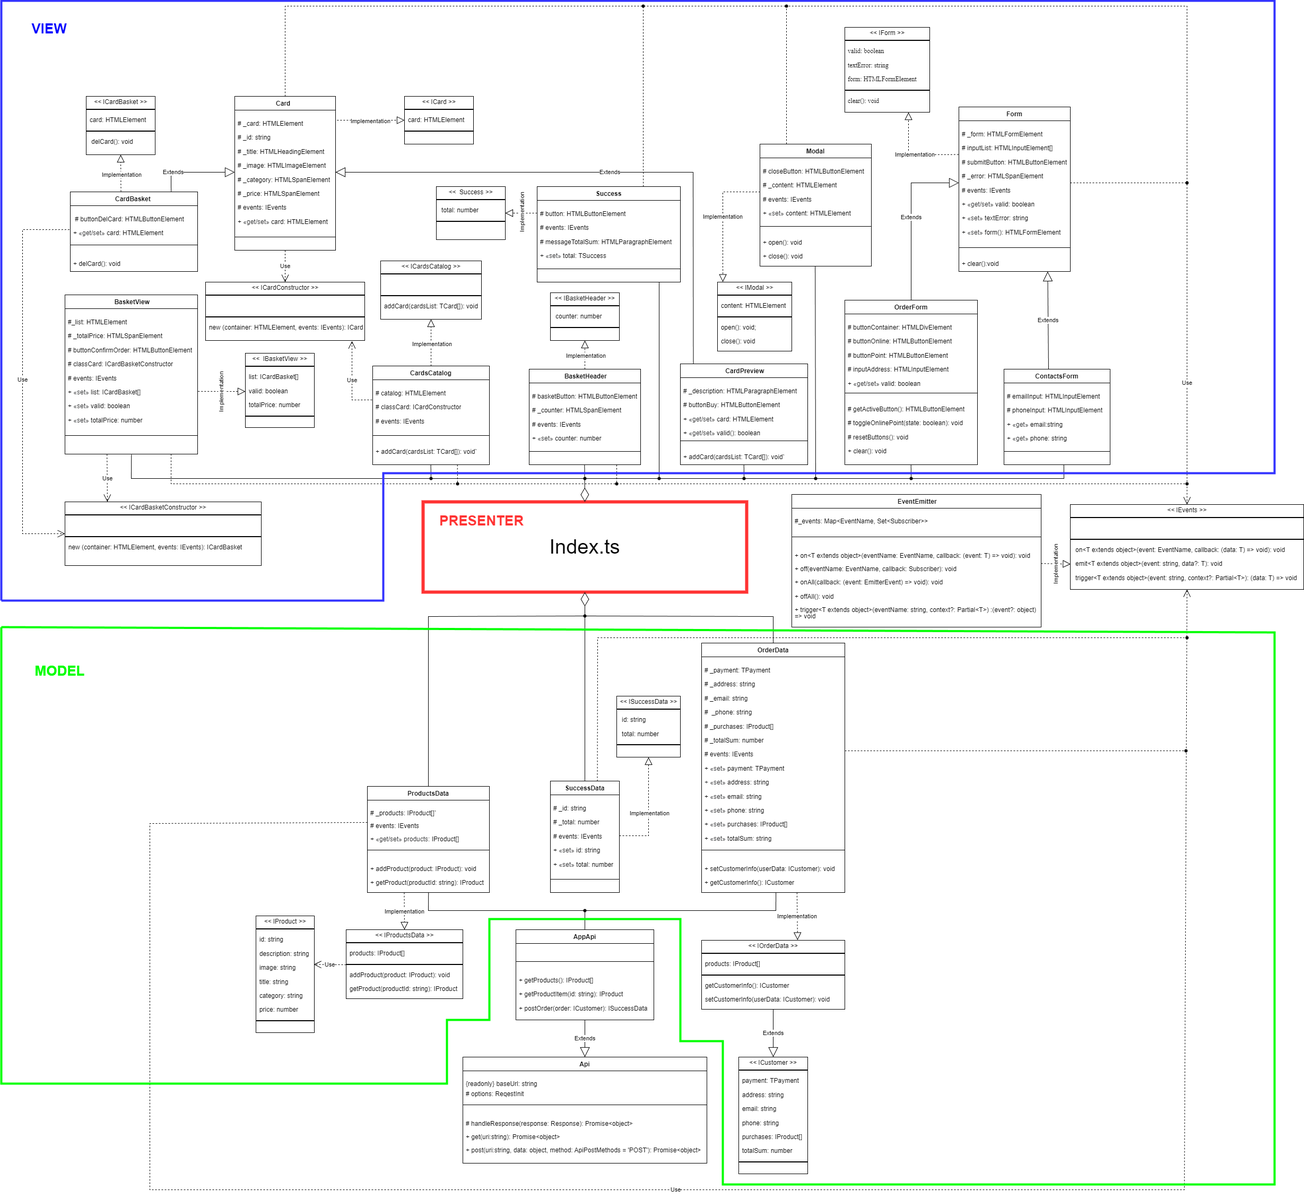
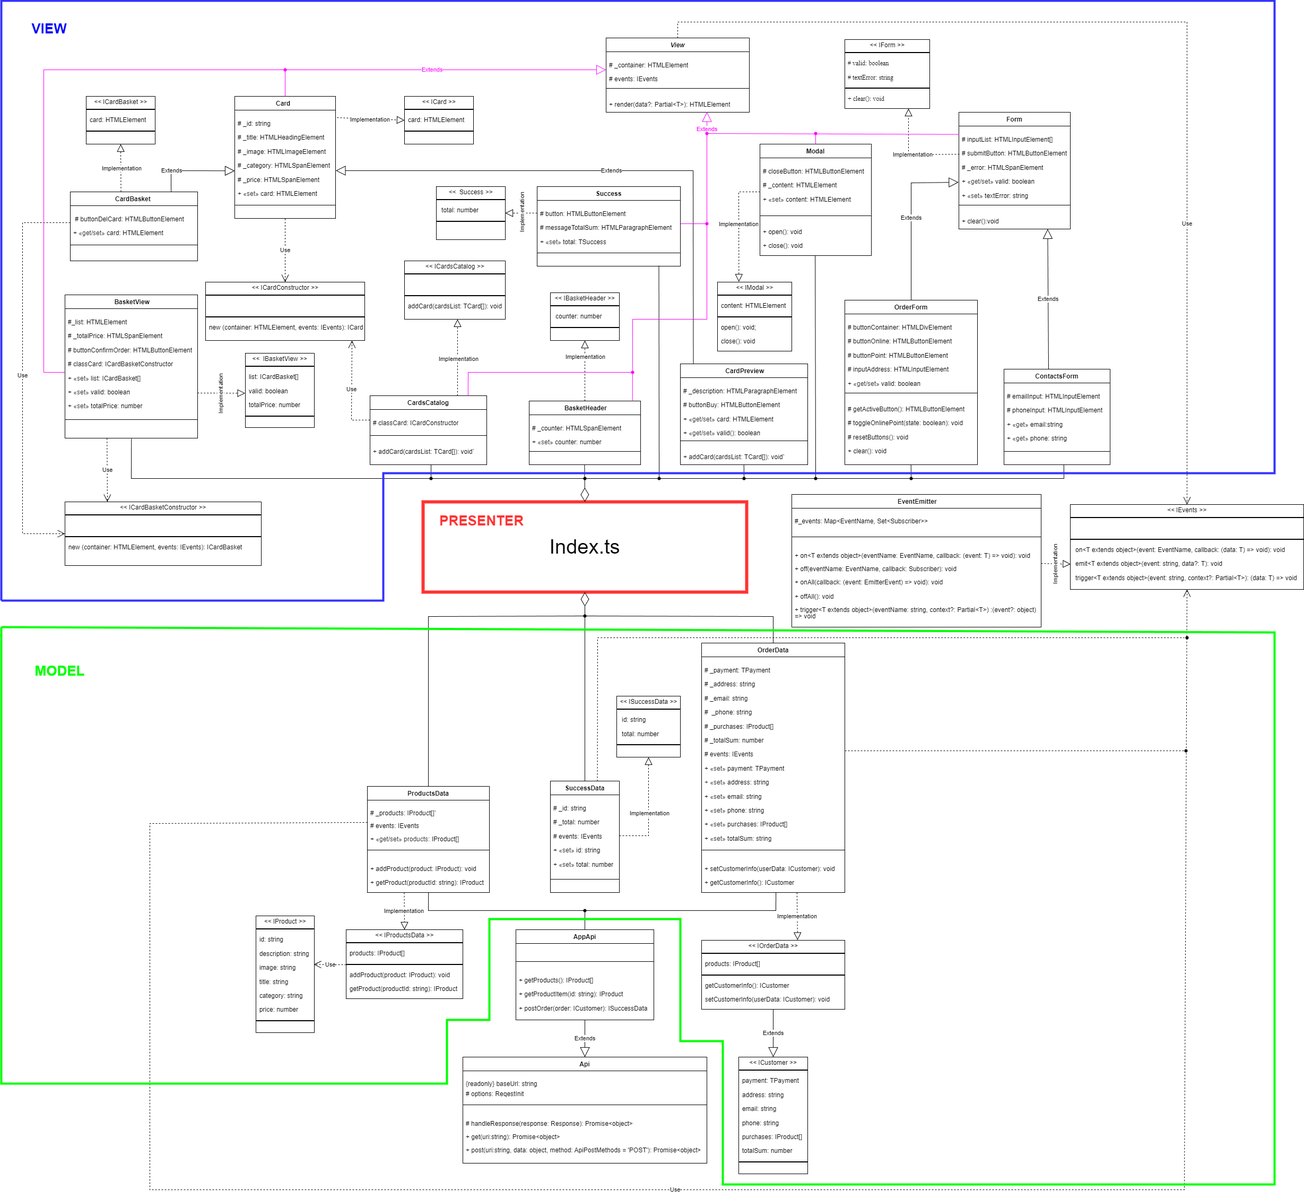
Edit README.md, README-UML, types/index.ts

diff --git a/src/types/index.ts b/src/types/index.ts
@@ -25,8 +25,9 @@ export interface ICustomer {
 }
 
 export interface IOrderData extends ICustomer {
-  getCustomerInfo(): ICustomer;
-  setCustomerInfo(userData: ICustomer): void;
+  addCard(item: IProduct): void;
+  deleteCard(id: string): void;
+  customerInfo: ICustomer;
   }
 
 export interface ISuccessData {
@@ -47,7 +48,6 @@ export interface IModal {
 export interface IForm {
   valid: boolean;
   textError: string;
-  form: HTMLFormElement;
   clear(): void;
 }
 
@@ -65,7 +65,6 @@ export interface ICardsCatalog {
 
 export interface ICardBasket {
   card: HTMLElement;
-  delCard(): void;
 }
 
 export interface ICardBasketConstructor {

diff --git a/README.md b/README.md
@@ -116,7 +116,8 @@ yarn build
 - `protected _email: string` - email покупателя
 - `protected _phone: string` - номер телефона покупателя
 - `protected _purchases: IProduct[]` - массив товаров для покупки
-- `protected _totalSum: number` - общая цена покупаемых товаров 
+- `protected _totalSum: number` - общая цена покупаемых товаров
+- `protected _customerInfo: ICustomer` - вся информация о покупке 
 - `protected events: IEvents` - экземпляр класса `EventEmitter` для инициации событий при изменении данных.
   
 Параметры в конструкторе:
@@ -129,8 +130,10 @@ yarn build
  - `set phone(value: string): void` - запись номера телефона покупателя
  - `set purchases(value: IProduct[]): void` - добавление в массив товаров покупателя
  - `set totalSum(value: string): void` - запись общей суммы покупок
- - `setCustomerInfo(userData: ICustomer): void`  - запись всей информации о покупке
- - `getCustomerInfo(): ICustomer` - возвращение всей информации о покупке.
+ - `addCard(item: IProduct): void` - добавление продукта в список покупок _purchases
+ - `deleteCard(id: string): void` - удаление продукта по его id из списка покупок
+ - `set customerInfo(userData: ICustomer): void`  - запись всей информации о покупке
+ - `get customerInfo(): ICustomer` - возвращение всей информации о покупке.
 
 #### Класс SuccessData
 Класс отвечает за данные, получаемые с сервера после успешного офрмления заказа
@@ -149,32 +152,40 @@ yarn build
 
 ### Слой представления - View
 
-#### Класс BasketHeader
-Реализует корзину, расположенную в header страницы: показывает количество добавленного товара и открывает при нажатии полноценное модальное окно с подробной корзиной товаров.   
+#### Класс View
+Абстрактный класс View служит шаблоном для классов слоя представления
 
 Поля:
-- `protected basketButton: HTMLButtonElement` - кнопка корзины, расположенная в элементе header
-- `protected _counter: HTMLSpanElement` - счётчик количества товаров в корзине
-- `protected events: IEvents` - объект, являющимся брокером событий, поддерживает интерфейс IEvents.
+- `protected _container: HTMLElement` - DOM элемент, передаваемый в консструкторе
+- `protected events: IEvents` - объект класса `EventEmitter` для инициации событий при изменении данных.
 
 Параметры в конструкторе:
-- `container: HTMLElement` - DOM элемент, внутри которого располагается корзина 
-- `events: IEvents` - объект, являющимся брокером событий, поддерживает интерфейс IEvents.
+- `container: HTMLElement` - DOM элемент компонента
+- `events: IEvents` - объект класса `EventEmitter` для инициации событий при изменении данных.
+
+Методы, геттеры и сеттеры:
+- `render(data?: Partial<T>): HTMLElement` - возвращает отрисовнный html элемент по переданным данным
+
+#### Класс BasketHeader
+Наследует класс View. Реализует корзину, расположенную в header страницы: показывает количество добавленного товара и открывает при нажатии полноценное модальное окно с подробной корзиной товаров.   
+
+Поля:
+- `protected _counter: HTMLSpanElement` - счётчик количества товаров в корзине.
+
+Параметры в конструкторе:
+- параметры `View`.
 
 Методы, геттеры и сеттеры:
 - `set counter(value: number): void` - устанавливает значение в счётчике товаров корзины.
   
 #### Класс Modal
-Реализует модальное окно. Так же предоставляет методы `open` и `close` для управления отображением модального окна. Устанавливает слушатели на клик в оверлей и кнопку-крестик для закрытия попапа.  
+Наследует класс View. Реализует модальное окно. Так же предоставляет методы `open` и `close` для управления отображением модального окна. Устанавливает слушатели на клик в оверлей и кнопку-крестик для закрытия попапа.  
 
 Поля:
 - `protected closeButton: HTMLButtonElement` - кнопка закрытия модального окна.
-- `protected _content: HTMLElement` - содержимое модального окна
-- `protected events: IEvents` - объект, являющимся брокером событий, поддерживает интерфейс IEvents.
 
 Параметры в конструкторе:
-- `container: HTMLElement` - DOM элемент модального окна
-- `events: IEvents` - объект класса `EventEmitter` для инициации событий при изменении данных.
+- параметры `View`.
 
 Методы, геттеры и сеттеры:
 - `set content(value: HTMLElement): void` - нужен для возможности изменения внутреннего содержимого модального окна
@@ -182,59 +193,46 @@ yarn build
 - `close(): void` - скрывает модальное окно.
 
 #### Класс Form
-Реализует пользовательский функционал с формами.  
+Наследует класс View. Реализует пользовательский функционал с формами.  
 
 Поля:
-- `protected _form: HTMLFormElement` - форма, переданная в конструкторе
 - `protected inputList: HTMLInputElement[]` - список input элементов формы
 - `protected submitButton: HTMLButtonElement` - кнопка отправки формы
-- `protected _error: HTMLSpanElement` - элемент для отображения ошибок формы
-- `protected events: IEvents` - объект класса `EventEmitter` для инициации событий при изменении данных.
+- `protected _error: HTMLSpanElement` - элемент для отображения ошибок формы.
 
 Параметры в конструкторе:
-- `formConteiner: HTMLFormElement` - контейнер формы
-- `events: IEvents` - объект класса `EventEmitter` для инициации событий при изменении данных.
-
+- параметры `View`.
+  
 Методы, геттеры и сеттеры:
 - `get valid(): boolean` - получения статуса валидности формы
 - `set valid(value: boolean):void` - для блокировки / разблокировки кнопки submit
 - `set textError(value: string)` - установка текста ошибок
-- `get form(): HTMLFormElement` - возвращает форму
 - `clear():void` - очистка формы.
 
 #### Класс Card  
-Отвечает за отображение карточки с товаром, задавая в карточке данные товара: название, изображение, категорию, описание и цену. Класс используется для отображения карточек на странице сайта. В конструктор класса передается DOM элемент темплейта, что позволяет при необходимости формировать карточки разных вариантов верстки. 
+Наследует класс View. Отвечает за отображение карточки с товаром, задавая в карточке данные товара: название, изображение, категорию, описание и цену. Класс используется для отображения карточек на странице сайта. В конструктор класса передается DOM элемент темплейта, что позволяет при необходимости формировать карточки разных вариантов верстки. 
 
 Поля:
-- `protected _card: HTMLElement` - контейнер карточки, передаваемый в конструкторе
 - `protected _id: string` - id карточки товара
 - `protected _title: HTMLHeadingElement` - html элемент, отвечающий за отображение имени товара
 - `protected _image: HTMLImageElement` - html элемент, отвечающий за отображение изображение товара
 - `protected _category: HTMLSpanElement` - html элемент, отвечающий за отображение категории товара
 - `protected _price: HTMLSpanElement` - html элемент, отвечающий за отображение цены товара
-- `protected events: IEvents` - объект, являющимся брокером событий, поддерживает интерфейс IEvents.
 
 Параметры в конструкторе:
-- `container: HTMLElement` - DOM элемент, контейнер для дочерних элементов
-- `events: IEvents` - объект, являющимся брокером событий, поддерживает интерфейс IEvents.
+- параметры `View`
 
 Методы, геттеры и сеттеры:
 - `set card(cardData: TCard): void` - заполняет атрибуты элементов карточки данными
-- `get card(): HTMLElement` - метод возвращает полностью заполненную карточку.
 
 #### Класс CardsCatalog
-Отвечает за отображение блока с карточками на главной странице.
+Наследует класс View. Отвечает за отображение блока с карточками на главной странице.
 
 Поля:
-- `protected _catalog: HTMLElement` - каталог карточек товаров 
 - `protected classCard: ICardConstructor` - класс для создания карточки товара
-- `protected events: IEvents` - объект, являющимся брокером событий, поддерживает интерфейс IEvents.
 
 Параметры в конструкторе:
-- `container: HTMLElement` - DOM элемент, контейнер для вывода карточек
 - `classCard: ICardConstructor` - класс для создания карточки товара
-- `events: IEvents` - объект, являющимся брокером событий, поддерживает интерфейс 
-IEvents.
 
 Методы, геттеры и сеттеры:
 - `addCard(cardsList: TCard[]): void` - метод для добавления карточек.
@@ -265,24 +263,20 @@ IEvents.
 - параметры класса `Card`. 
 
 Методы, геттеры и сеттеры:
-- `delCard(): void` - метод удаления карточки
 - `set card(cardData: TCardBasket): void` - заполняет атрибуты элементов карточки данными
 - `get card(): HTMLElement` - метод возвращает полностью заполненную карточку.
 
 #### Класс BasketView
-Отображает корзину с добавленными в нее товарами.
+Наследует класс View. Отображает корзину с добавленными в нее товарами.
 
 Поля
 - `protected _list: HTMLElement` - html элемент, отвечающий за отображение списка карточек
 - `protected _totalPrice: HTMLSpanElement;` - html элемент, отвечающий за отображение общей стоимости товаров
 - `protected buttonConfirmOrder: HTMLButtonElement` - кнопка "оформить"
 - `protected classCard: ICardBasketConstructor` - класс для создания карточки товара в корзине
-- `protected events: IEvents` - объект, являющимся брокером событий, поддерживает интерфейс IEvents.
 
 Параметры в конструкторе:
-- `container: HTMLElement` - контейнер для корзины
 - `protected classCard: ICardConstructor` - класс для создания карточки товара в корзине
-- `events: IEvents` - объект, являющимся брокером событий, поддерживает интерфейс IEvents.
 
 Методы, геттеры и сеттеры:
 - `set list(items: ICardBasket[]): void` - для установки карточек товаров в корзине
@@ -299,7 +293,7 @@ IEvents.
 - `protected inputAddress: HTMLInputElement` - поле для ввода адреса.
 
 Параметры в конструкторе:
-- параметры Form
+- параметры `Form`
  
 Методы, геттеры и сеттеры:
 - `protected getActiveButton(): HTMLButtonElement | null` - возвращает кнопку, которая активна, либо null, если никто из них неактивна.
@@ -317,23 +311,21 @@ IEvents.
 - `protected phoneInput: HTMLInputElement` - текстовое поле для номера телефона.
 
 Параметры в конструкторе:
-- параметры Form
+- параметры `Form`
 
 Методы, геттеры и сеттеры:
 - `get email(): string` - возвращает email из поля ввода email
 - `get phone(): string` - возвращает номер телефона из поля ввода phone
 
 #### Класс Success
-Уведомление об успешной покупке, содержит кнопку "за новыми покупками!".
+Наследует класс View. Уведомление об успешной покупке, содержит кнопку "за новыми покупками!".
 
 Поля
 - `protected button: HTMLButtonElement;` - кнопка "за новыми покупками"
-- `protected events: IEvents` - объект, являющимся брокером событий, поддерживает интерфейс IEvents
 - `protected messageTotalSum: HTMLParagraphElement` - html элемент, отвечающий за показ потраченных средств за все покупки.
 
 Параметры в конструкторе:
-- `container: HTMLElement` - DOM элемент, контейнер для дочерних элементов.
-- `events: IEvents` - объект, являющимся брокером событий, поддерживает интерфейс IEvents.
+- параметры `View`
 
 Методы, геттеры и сеттеры:
 - `set total(value: TSuccess)` - устанавливает количество потраченных средств в html элемент messageTotalSum.
